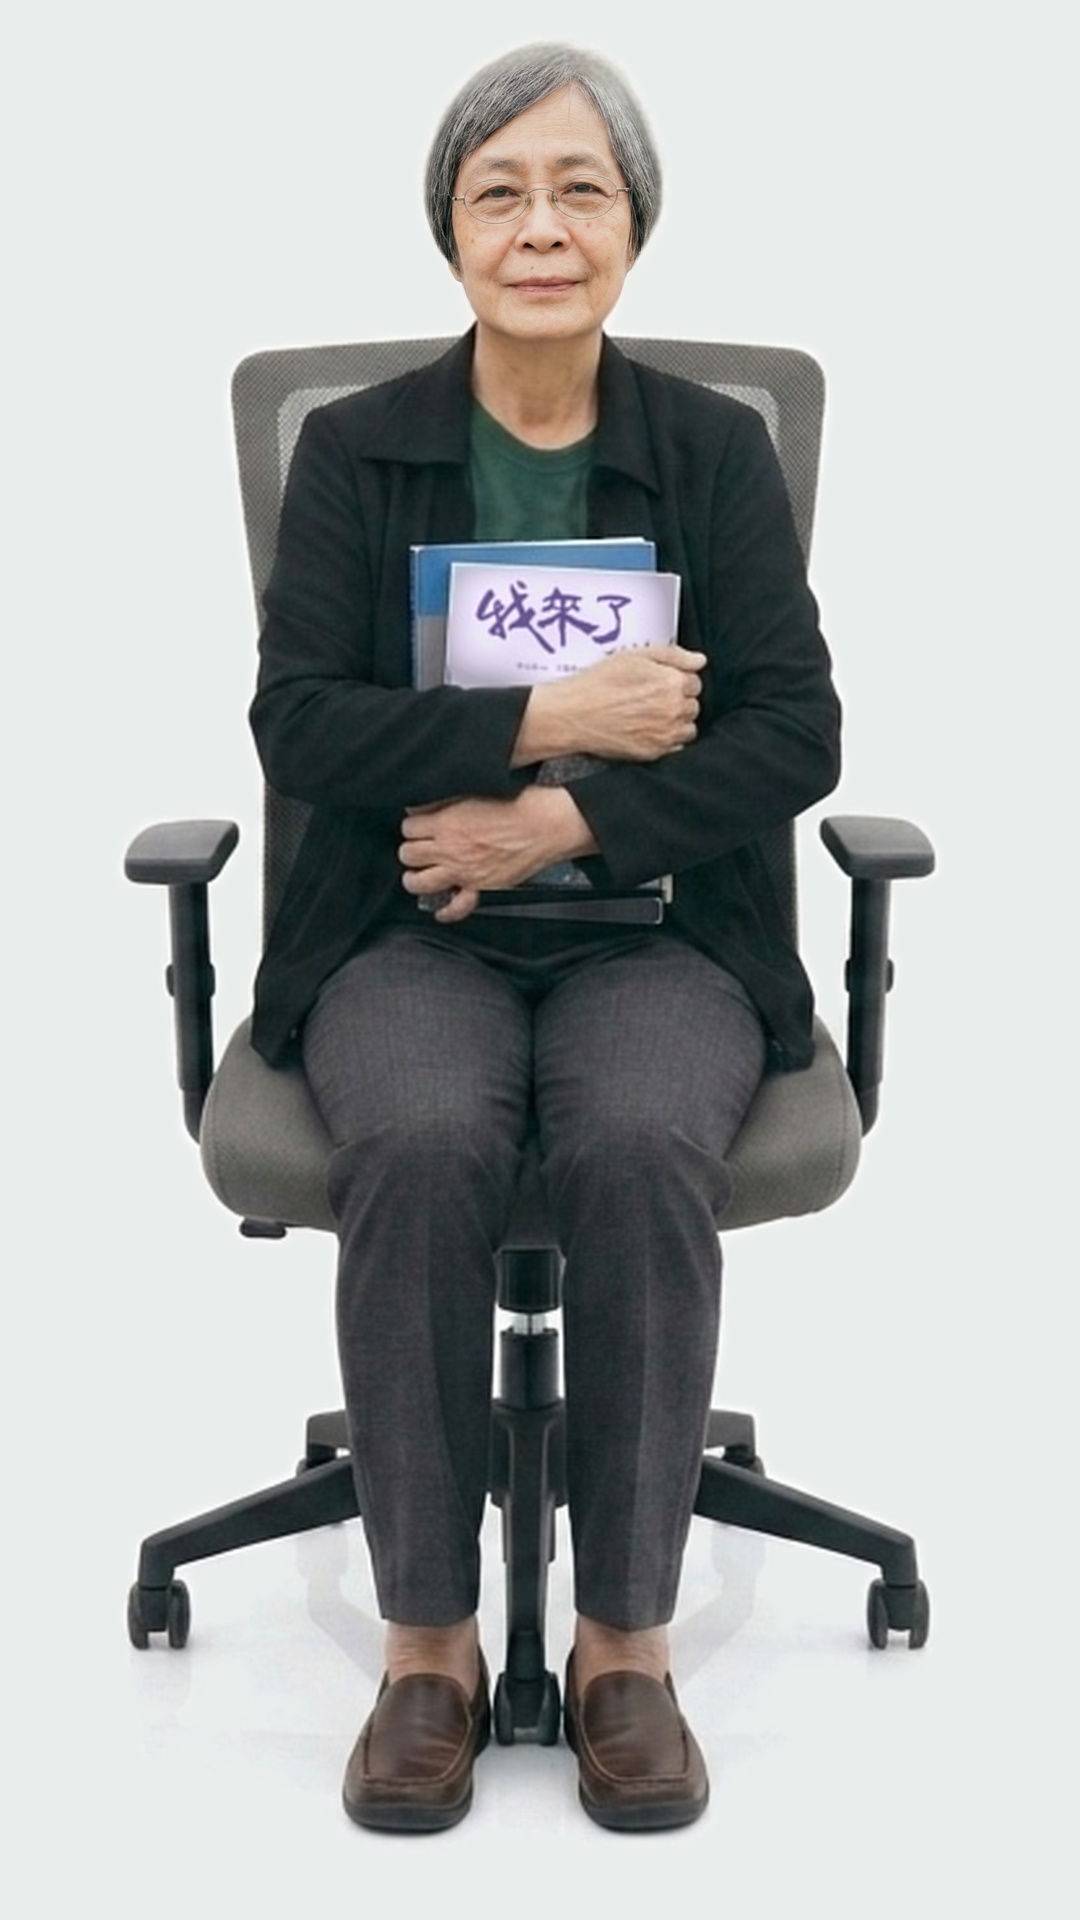
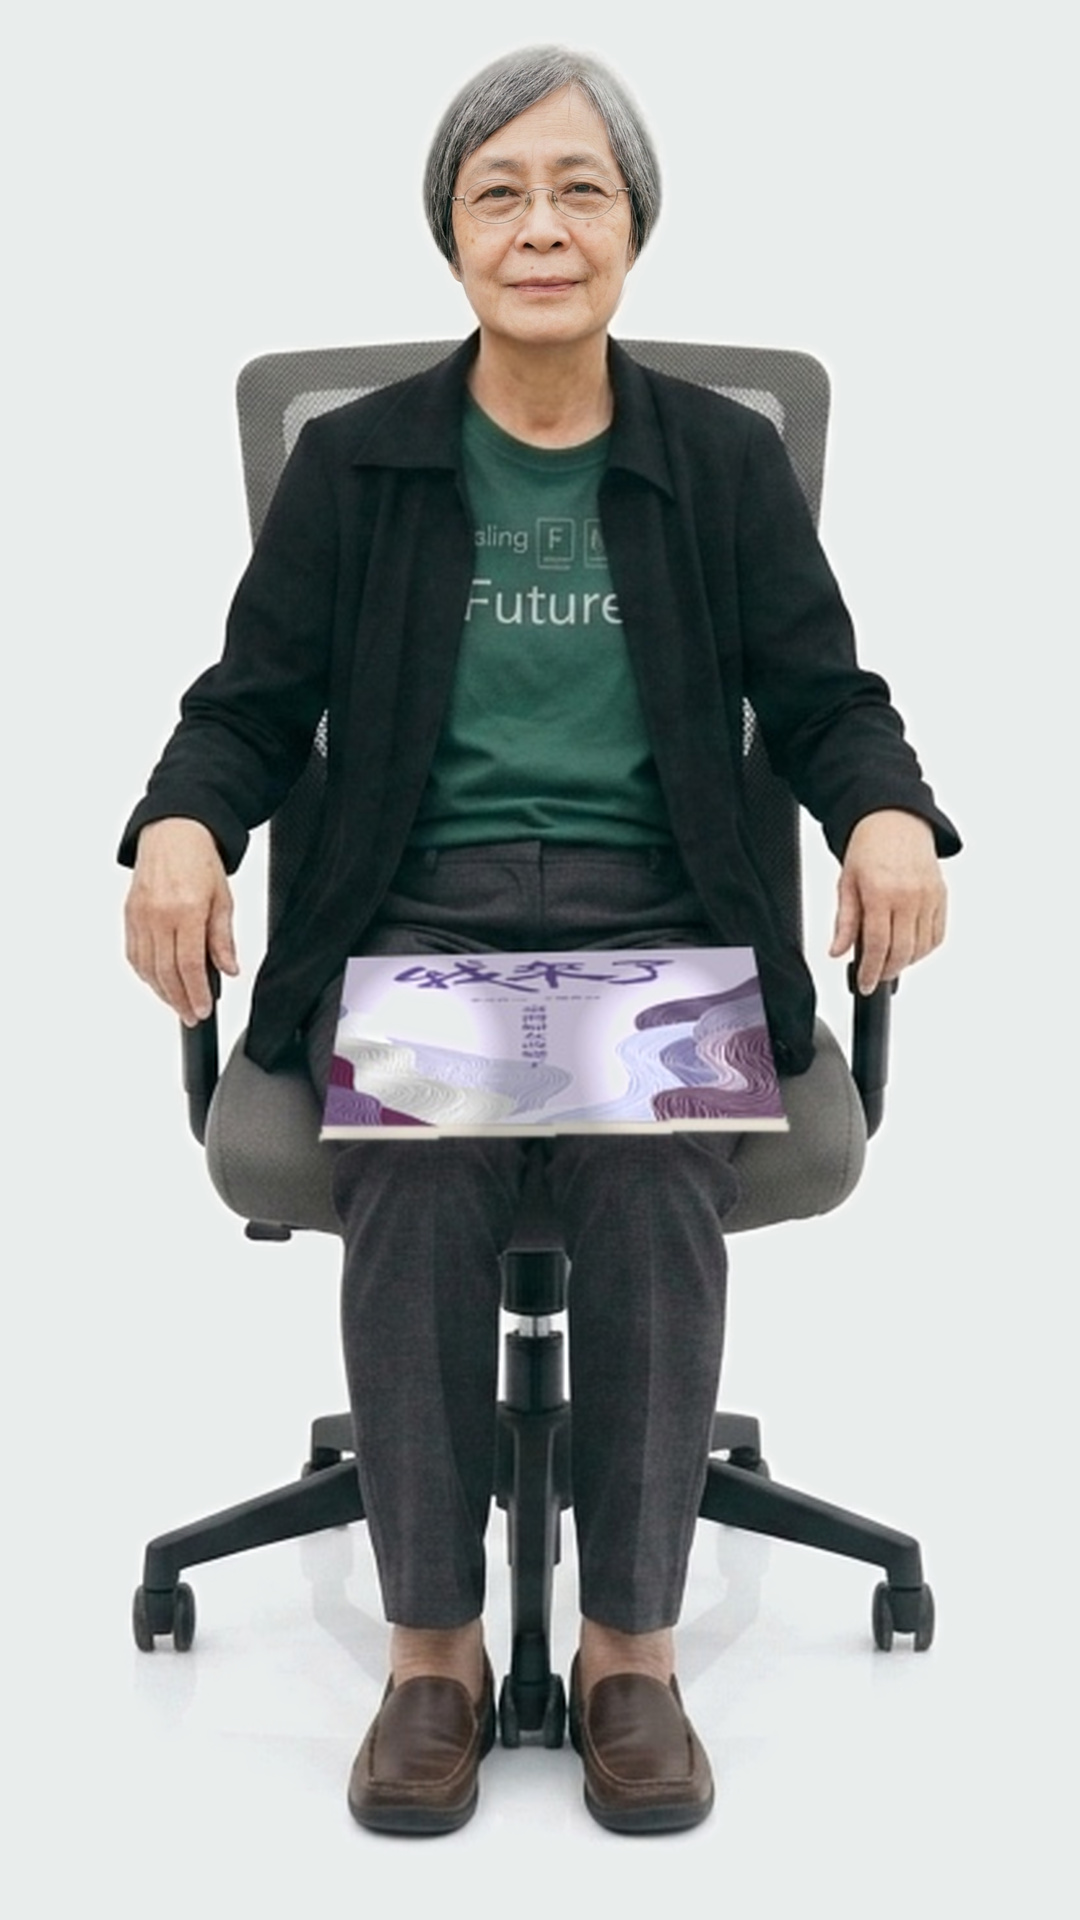
feat(live): 底圖換成雙手放扶手的坐姿，書改放腿上
抱書那一版的手指是斷的——指尖在深色處直接消失。我拿 Gemini 原圖跟
處理過的比對，一模一樣，是生成時就有的，修圖補不回來（紋理可以逐像素
換，解剖結構不行）。

換成雙手自然放在扶手上的版本，手指完整。頭部幾何幾乎一樣
（髮頂 88 vs 89、頭中心 686 vs 688.5），viewport 平移 2px 成
`416x740+478+71` 之後，髮頂一樣落在 y=44、頭中心 x=541、髮頂→脖子 279，
所以 STAGE_BOX 與橢圓一個數字都不用改。

《我來了》改成平放在腿上，透視四角 612,440 / 768,436 / 780,502 / 602,506。
⚠ 只貼封面會被讀成一張海報。要三樣一起才像一本書：
  ① 乘上腿部原本的明暗（不然像貼紙）
  ② 近緣畫一條 4~5px 的書口（厚度）
  ③ 近緣下方一片模糊的接觸陰影（不然像浮在腿上）

附帶好處：這一版的綠 T 恤印花是可讀的（「…Future」），不是抱書版那種
亂碼，所以不必再抹字；最下面那本亂碼書也不存在了。

diff --git a/components/avatar/full-body-stage.tsx b/components/avatar/full-body-stage.tsx
@@ -16,33 +16,19 @@ import type { ReactNode } from "react";
  *    都是模型畫出來的。她本人還在世，這件事主辦單位必須知情——浮水印
  *    （VideoAvatar 裡那條「AI 生成影像」）因此比原本更不能拿掉。
  *
- *    ⚠ 她抱著的那本書**已經換成真的**：原圖生成出來的封面寫著
- *    「THE ETHICS OF TECHNOLOGY」，那不是她的書也不是她的領域，所以把
- *    《我來了！臺灣婦女改變了》的實際封面透視貼了上去（遮罩只取原本那塊
- *    白色書面，手部與後面那本藍書不動，並沿用原圖的明暗），下面那本書上的
- *    亂碼白字也一併抹掉。要重做的話，來源是
- *    `~/Downloads/元貞/我來了_cover_0618.jpg` 的封面那一格（x 3334~4935）。
+ *    ⚠ **姿勢是雙手放扶手，不是抱書。** 原本用的是「抱著書」那一版，但那張
+ *    生成出來的手指是斷的——指尖在深色處直接消失（拿 Gemini 原圖跟處理後的
+ *    比對過，一模一樣，是生成時就有的，修圖補不回來）。換成雙手自然放在
+ *    扶手上的版本，手指完整。
  *
- *    ⚠ 抹亂碼字**一律用鏡射搬真實像素，不要合成、不要模糊**。四種方法試過，
- *    只有最後一種可用：
- *      ①「只換比書本亮 N 階的像素」→ 中間調的鬼影全留著，變一片斑駁
- *      ② 中值濾波（size 15）→ 連她的手指一起糊掉
- *      ③ 逐欄垂直內插 ／ 擬合平面 ＋ 雜訊 → 沒有鬼影了，但**是糊的**。
- *         四周是銳利的照片，中間一塊平滑漸層，一眼就看得出補過
- *      ✅ ④ 鏡射：以乾淨那一側為鏡面，把真實像素翻過來蓋上去。
- *         不做平滑、不加雜訊、不羽化（左右各留 2px 線性過渡就好），
- *         銳利度與紋理自動跟四周一致。
+ *    《我來了！臺灣婦女改變了》改成平放在她腿上，用透視貼上去
+ *    （source 四角 612,440 / 768,436 / 780,502 / 602,506）。
+ *    ⚠ 只貼封面會被讀成一張海報，要三樣一起才像一本書：
+ *      ① 乘上腿部原本的明暗（不然像貼紙）
+ *      ② 近緣畫一條 4~5px 的書口（厚度）——少了它腦袋讀不出那是立體的
+ *      ③ 近緣下方一片模糊的接觸陰影（不然像浮在腿上）
+ *    封面來源是 `~/Downloads/元貞/我來了_cover_0618.jpg` 的封面格（x 3334~4935）。
  *
- *    兩處亂碼與各自的鏡面（source 座標，逐列掃描量出來的）：
- *      最下面那本書：x 663~737、y 415~422，鏡面 y=422.5（取樣 423~430）
- *      綠 T 恤胸口：  x 659~713、y 271~279，鏡面 y=270.5（取樣 262~270）
- *    ⚠ 衣服那條的下界是 279 不是 283——280 起就是書的上緣，越過去會把書口蓋掉。
- *    ⚠ 鏡面要挑在**完全乾淨**的那一側：取樣列裡只要含到一列有字，鬼影就回來。
- *       用「逐列掃 x 655~716 的最亮值」判斷：衣服本身約 80，有字的列是 90~142。
- *
- * 🔴 **剩下的「怪」是她的手，那個修不掉。** 交疊的前臂與手指是模型畫的，
- *    放大看指節與手背的結構是錯的。修圖救不了——要換就是重新生成一張
- *    「看不到手指」的姿勢（雙手放扶手、或書放腿上），然後整套幾何重量一次。
  * 3. **對位是量出來的。** 下面的數字全部相依於「現在這一隻 avatar 的串流長
  *    什麼樣」。換 avatar 就要照下面的方法重量一次。
  */
